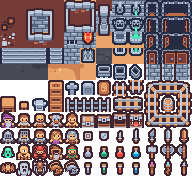
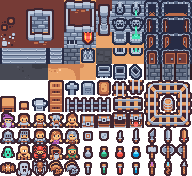
Dungeon demo: the walls a shade darker too, keeping their own color.

Changed region(s): [[0.75, 0.3409, 1.0, 0.4545], [0.3125, 0.2557, 0.4375, 0.3693]]

diff --git a/tools/make-dungeon-demo.py b/tools/make-dungeon-demo.py
@@ -214,15 +214,18 @@ type_json("SceneManager", {"_name": "Rooms", "transition": "Fade", "fadeTime": 0
 # ── the tiles: walls solid and casting shadows, floors open ──
 WALLS = [40, 57, 58, 59]
 FLOORS = [48, 48, 48, 49, 42, 48, 50]
-# The floor is dark stone: the pack's sandy floor tiles, darkened and cooled in the copied sheet, the walls as they are.
+# The floor is dark stone: the pack's sandy floor tiles, darkened and cooled in the copied sheet; the walls a shade
+# darker than the pack draws them, keeping their own color.
 STONE = (0.40, 0.41, 0.47)
-for i in sorted(set(FLOORS)):
-    x, y = (i % 12) * T, (i // 12) * T
-    for px_ in range(x, x + T):
-        for py_ in range(y, y + T):
-            r, g, b_, a_ = sheet.getpixel((px_, py_))
-            lum = 0.299 * r + 0.587 * g + 0.114 * b_
-            sheet.putpixel((px_, py_), (int(lum * STONE[0]), int(lum * STONE[1]), int(lum * STONE[2]), a_))
+def shade(indices, f):
+    for i in sorted(set(indices)):
+        x, y = (i % 12) * T, (i // 12) * T
+        for px_ in range(x, x + T):
+            for py_ in range(y, y + T):
+                r, g, b_, a_ = sheet.getpixel((px_, py_))
+                sheet.putpixel((px_, py_), f(r, g, b_) + (a_,))
+shade(FLOORS, lambda r, g, b_: tuple(int((0.299 * r + 0.587 * g + 0.114 * b_) * k) for k in STONE))
+shade(WALLS, lambda r, g, b_: (int(r * 0.72), int(g * 0.72), int(b_ * 0.74)))
 sheet.save(os.path.join(out, "assets", "art", TILES))
 tiles = []
 for i in range(132):
